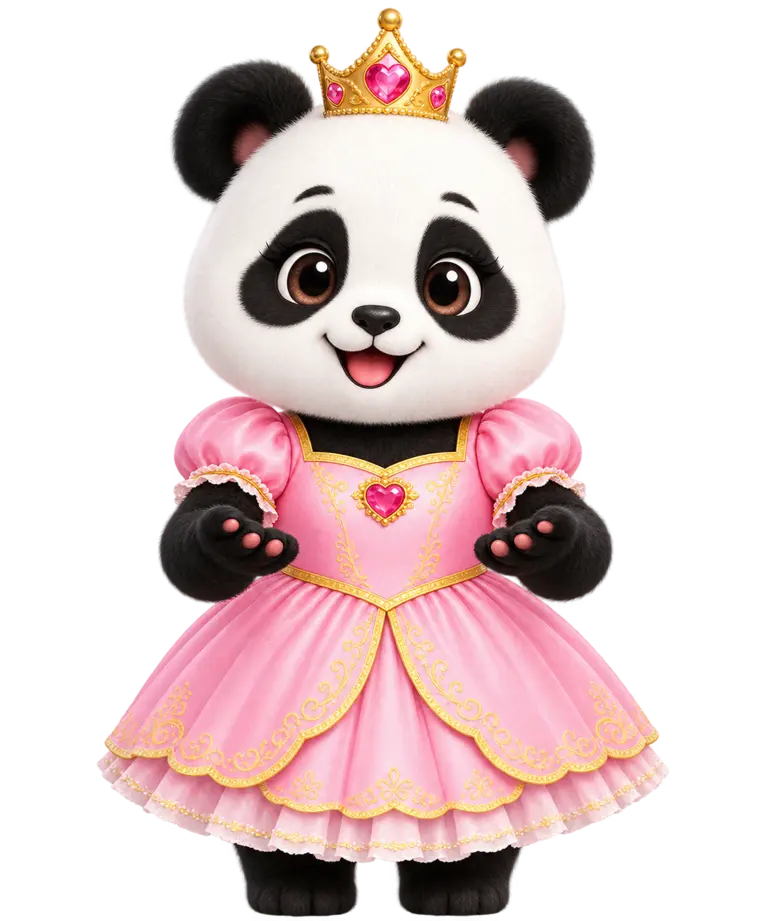
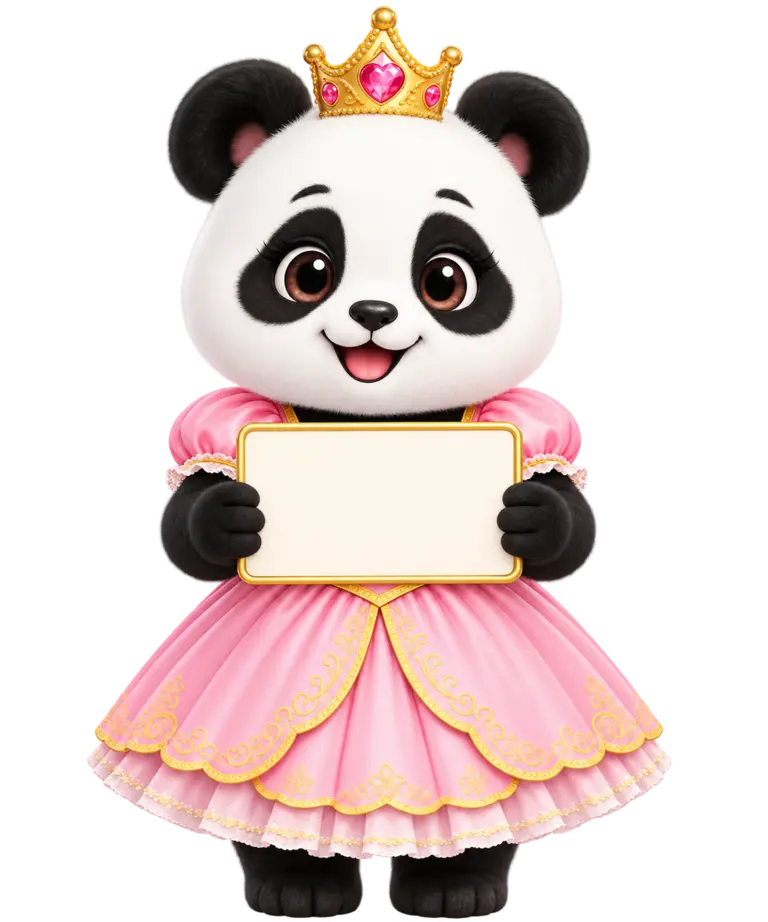
fix(dialog): integrate panda arms with held tablet

diff --git a/fusion_reader_v2/web/static/styles.css b/fusion_reader_v2/web/static/styles.css
@@ -868,8 +868,8 @@ button:disabled {
   position: absolute;
   z-index: 1;
   left: 50%;
-  /* The tablet sits at the paw line, not at the panda's waist. */
-  top: 44%;
+  /* Align live dialog content with the tablet held by the panda. */
+  top: 47%;
   bottom: auto;
   width: min(148px, calc(100% - 42px));
   padding: 7px 8px 6px;
@@ -880,16 +880,6 @@ button:disabled {
   color: var(--text);
   text-align: center;
   transform: translateX(-50%) rotate(-2deg);
-}
-.panda-dialog-hands {
-  position: absolute;
-  z-index: 2;
-  top: calc(44% - 18px);
-  left: 50%;
-  width: min(340px, 82vw);
-  height: auto;
-  pointer-events: none;
-  transform: translateX(-50%);
 }
 .panda-dialog-spark {
   position: absolute;
@@ -934,8 +924,6 @@ button:disabled {
 .panda-dialog-overlay[data-mode="prompt"] .panda-dialog-mascot { width: 122px; }
 .panda-dialog-overlay[data-mode="prompt"] .panda-dialog-hand-sign,
 .panda-dialog-overlay[data-mode="notice"] .panda-dialog-hand-sign { top: auto; bottom: 5px; width: 190px; }
-.panda-dialog-overlay[data-mode="prompt"] .panda-dialog-hands,
-.panda-dialog-overlay[data-mode="notice"] .panda-dialog-hands { display: none; }
 .panda-dialog-overlay[data-mode="prompt"] .panda-dialog-form { display: block; }
 .panda-dialog-overlay[data-mode="prompt"] .panda-dialog-card { display: grid; grid-template-columns: 170px minmax(0, 1fr); gap: 14px; }
 .panda-dialog-overlay[data-mode="prompt"] .panda-dialog-hand-sign { text-align: left; }

diff --git a/tests/panda_dialog_contract.test.js b/tests/panda_dialog_contract.test.js
@@ -14,7 +14,6 @@ test('Panda dialog replaces browser-native confirmations across reader workspace
   assert.match(html, /id="pandaDialog"/);
   assert.match(html, /panda-fusion-emblem\.webp/);
   assert.match(html, /panda-princess-dialog-hd\.webp/);
-  assert.match(html, /panda-princess-hands\.webp/);
   assert.match(html, /panda-dialog-hand-sign/);
   assert.match(html, /id="pandaDialogAccept"/);
   assert.match(dialog, /const mode = acceptsText \? 'prompt' : \(cancelLabel \? 'confirm' : 'notice'\)/);

diff --git a/fusion_reader_v2/web/static/index.html b/fusion_reader_v2/web/static/index.html
@@ -330,7 +330,6 @@
               <button id="pandaDialogAccept" class="primary compact-btn" type="button">Sí</button>
             </div>
           </div>
-          <img class="panda-dialog-hands" src="/static/panda-princess-hands.webp" alt="">
         </div>
         <div class="panda-dialog-form">
           <label id="pandaDialogFieldWrap" class="panda-dialog-field" hidden>

diff --git a/tests/integration/test_web_server.py b/tests/integration/test_web_server.py
@@ -146,7 +146,6 @@ class WebServerIntegrationTests(unittest.TestCase):
                 ("/static/styles.css", b"--accent"),
                 ("/static/panda-fusion-emblem.webp", b"RIFF"),
                 ("/static/panda-princess-dialog-hd.webp", b"RIFF"),
-                ("/static/panda-princess-hands.webp", b"RIFF"),
                 ("/static/app.js", b"bootstrap.mjs"),
                 ("/static/js/bootstrap.mjs", b"readCurrent"),
                 ("/static/js/dictation.mjs", b"createDictationController"),

diff --git a/fusion_reader_v2/web/server.py b/fusion_reader_v2/web/server.py
@@ -40,7 +40,6 @@ STATIC_CONTENT_TYPES = {
     "panda-fusion-emblem.webp": "image/webp",
     "panda-princess-dialog.png": "image/png",
     "panda-princess-dialog-hd.webp": "image/webp",
-    "panda-princess-hands.webp": "image/webp",
     "app.js": "text/javascript; charset=utf-8",
     "busy_controls.js": "text/javascript; charset=utf-8",
     "js/bootstrap.mjs": "text/javascript; charset=utf-8",
